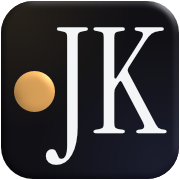
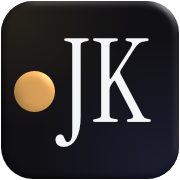
edited footers

Changed region(s): [[0.25, 0.1389, 0.9444, 0.9167]]

diff --git a/index.html b/index.html
@@ -313,7 +313,7 @@
           <span class="eyebrow">Contact</span>
         </div>
         <h2 class="h-section reveal delay-1">
-          Have a project, a paper, or a peak in mind?<br>
+          Have a project, a paper, or a photo-trip in mind?<br>
           <em>Let&rsquo;s talk.</em>
         </h2>
       </div>